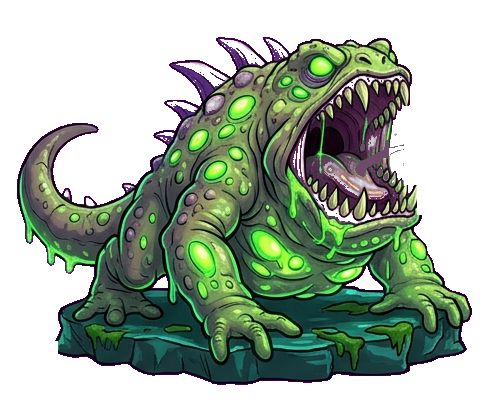
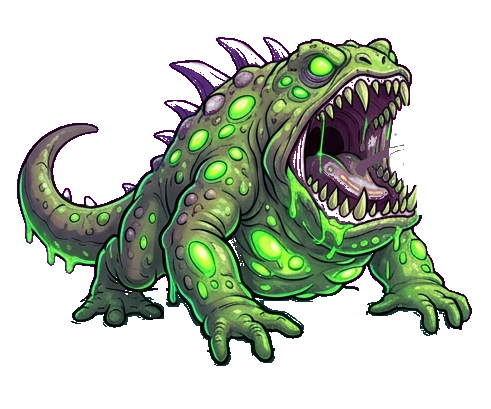
fix(boss,intro): remove rock pedestal from Boss sprites and add 3D trapezoidal Star Wars perspective crawl

Changed region(s): [[0.0916, 0.7042, 0.947, 0.9389], [0.4582, 0.5868, 0.4888, 0.6161]]

diff --git a/Assets/_SpaceChico/Scripts/UI/IntroShipCutscene.cs b/Assets/_SpaceChico/Scripts/UI/IntroShipCutscene.cs
@@ -17,11 +17,59 @@ namespace SpaceChico
         {
             public RectTransform rt;
             public Text txt;
+            public PerspectivaStarWarsEffect efeitoPerspectiva;
             public Vector2 posBase;
             public bool foiAtropelado;
             public Vector2 velocidadeVoando;
             public float velocidadeGiro;
             public float anguloAtual;
+        }
+
+        // Deforma os vértices do texto em um trapézio 3D real inclinado para o fundo do espaço (estilo Star Wars clássico!)
+        private class PerspectivaStarWarsEffect : BaseMeshEffect
+        {
+            public float yCentroParagrafo;
+            public bool ativo = true;
+
+            public static float CalcularEscalaPerspectiva(float yPlano)
+            {
+                float u = Mathf.Clamp((yPlano + 520f) / 1040f, -0.25f, 1.25f);
+                return 1.32f / (1f + Mathf.Max(-0.30f, u) * 2.15f);
+            }
+
+            public static float CalcularScreenY(float yPlano)
+            {
+                float u = Mathf.Clamp((yPlano + 520f) / 1040f, -0.25f, 1.25f);
+                return -490f + 860f * ((u * 1.85f) / (1f + Mathf.Max(0f, u) * 0.85f));
+            }
+
+            public override void ModifyMesh(VertexHelper vh)
+            {
+                if (!IsActive() || !ativo) return;
+
+                int count = vh.currentVertCount;
+                UIVertex v = new UIVertex();
+                for (int i = 0; i < count; i++)
+                {
+                    vh.PopulateUIVertex(ref v, i);
+
+                    float yPlano = yCentroParagrafo + v.position.y;
+                    float u = (yPlano + 520f) / 1040f;
+                    float persp = CalcularEscalaPerspectiva(yPlano);
+                    float screenY = CalcularScreenY(yPlano);
+
+                    v.position.x *= persp;
+                    v.position.y = screenY - yCentroParagrafo;
+
+                    float alphaTop = Mathf.Clamp01(1f - (u - 0.78f) / 0.22f);
+                    float alphaBot = Mathf.Clamp01((u + 0.05f) / 0.10f);
+                    Color32 c = v.color;
+                    c.a = (byte)Mathf.RoundToInt(c.a * alphaTop * alphaBot);
+                    v.color = c;
+
+                    vh.SetUIVertex(v, i);
+                }
+            }
         }
 
         private class ParticulaFumacaUI
@@ -198,29 +246,30 @@ namespace SpaceChico
             logoShadow.effectColor = new Color(0f, 0f, 0f, 0.95f);
             logoShadow.effectDistance = new Vector2(5f, -5f);
 
-            // 5. Parágrafos independentes do texto Star Wars (para serem espalhados um por um pela nave!)
+            // 5. Parágrafos independentes do texto Star Wars (com inclinação trapezoidal 3D real!)
             GameObject crawlRoot = new GameObject("StarWarsCrawlRoot");
             crawlRoot.transform.SetParent(canvasObj.transform, false);
             crawlRootRt = crawlRoot.AddComponent<RectTransform>();
             crawlRootRt.anchorMin = new Vector2(0.5f, 0.5f);
             crawlRootRt.anchorMax = new Vector2(0.5f, 0.5f);
-            crawlRootRt.sizeDelta = new Vector2(1200f, 1000f);
-            crawlRootRt.anchoredPosition = new Vector2(0f, -620f);
-            crawlRootRt.localRotation = Quaternion.Euler(28f, 0f, 0f);
+            crawlRootRt.sizeDelta = new Vector2(1400f, 1080f);
+            crawlRootRt.anchoredPosition = Vector2.zero;
+            crawlRootRt.localRotation = Quaternion.identity;
 
             string[] textosHistoria = new string[]
             {
-                "— Capítulo I: O Pântano Bioluminescente —",
-                "O destemido felino interestelar CHICO viajava feliz\npelo cosmos a bordo de sua nave exploradora.",
-                "De repente, uma pane catastrófica no propulsor\nfez a espaçonave perder o controle no espaço!",
-                "Atraída pela gravidade de um planeta selvagem,\na nave mergulhou em chamas na atmosfera densa...",
-                "Agora Chico precisa sobreviver à queda e recuperar o\nPROPULSOR QUÂNTICO para voltar às estrelas!"
+                "EPISÓDIO I",
+                "O PÂNTANO BIOLUMINESCENTE",
+                "É uma era de grandes viagens espaciais. O destemido\ngatinho astronauta CHICO cruzava a galáxia feliz\na bordo de sua moderna nave exploradora.",
+                "De repente, uma pane misteriosa no propulsor quântico\nfez os motores falharem, deixando a espaçonave\ntotalmente desgovernada pelo espaço profundo!",
+                "Atraída pela gravidade de um planeta selvagem e brilhante,\na nave do Chico agora corta as estrelas em chamas\nrumo a um pouso forçado na selva..."
             };
 
-            float[] alturasY = new float[] { 310f, 165f, 10f, -145f, -300f };
+            float[] alturasY = new float[] { -380f, -475f, -640f, -855f, -1070f };
+            int[] tamanhosFonte = new int[] { 38, 48, 36, 36, 36 };
             for (int i = 0; i < textosHistoria.Length; i++)
             {
-                AdicionarParagrafoCrawl(fonteTitulo, textosHistoria[i], new Vector2(0f, alturasY[i]), i == 0 ? 40 : 34);
+                AdicionarParagrafoCrawl(fonteTitulo, textosHistoria[i], new Vector2(0f, alturasY[i]), tamanhosFonte[i]);
             }
 
             // 6. Feixe luminoso que corta a tela junto com a nave
@@ -309,25 +358,30 @@ namespace SpaceChico
             RectTransform rt = go.AddComponent<RectTransform>();
             rt.anchorMin = new Vector2(0.5f, 0.5f);
             rt.anchorMax = new Vector2(0.5f, 0.5f);
-            rt.sizeDelta = new Vector2(1150f, 130f);
+            rt.sizeDelta = new Vector2(1280f, 180f);
             rt.anchoredPosition = pos;
 
             Text txt = go.AddComponent<Text>();
             txt.font = fonte;
             txt.fontSize = tamanhoFonte;
-            txt.lineSpacing = 1.25f;
+            txt.lineSpacing = 1.28f;
             txt.alignment = TextAnchor.MiddleCenter;
-            txt.color = new Color(1f, 0.86f, 0.22f, 1f);
+            txt.color = new Color(1f, 0.85f, 0.16f, 1f);
             txt.text = texto;
 
             Shadow sh = go.AddComponent<Shadow>();
             sh.effectColor = new Color(0f, 0f, 0f, 0.95f);
             sh.effectDistance = new Vector2(3f, -3f);
 
+            var persp = go.AddComponent<PerspectivaStarWarsEffect>();
+            persp.yCentroParagrafo = pos.y;
+            persp.ativo = true;
+
             paragrafos.Add(new ParagrafoCrawl
             {
                 rt = rt,
                 txt = txt,
+                efeitoPerspectiva = persp,
                 posBase = pos,
                 foiAtropelado = false
             });
@@ -446,33 +500,46 @@ namespace SpaceChico
             Vector3 posFinalShip = propShip != null ? propShip.transform.position : new Vector3(-5.2f, 2.15f, 0f);
 
             // =========================================================================
-            // ATO 1: Logo "SPACE CHICO" Gigante Encolhendo + Texto Star Wars Subindo
+            // ATO 1: Logo "SPACE CHICO" Gigante Encolhendo + Texto Star Wars Subindo Lento e Inclinado
             // =========================================================================
             AudioManager.Play(Sfx.PowerUp, 0.85f);
 
-            float duracaoCrawl = 5.0f;
+            float duracaoCrawl = 11.2f;
+            float velCrawl = 88f; // Velocidade lenta e majestosa estilo Star Wars
+            float scrollOffset = 0f;
             float t = 0f;
             while (t < duracaoCrawl && !pulouCutscene)
             {
                 float dt = Time.unscaledDeltaTime;
                 t += dt;
-                float p = t / duracaoCrawl;
 
-                AnimarEstrelas(t, -10f, -8f);
-                planetaRt.localRotation = Quaternion.Euler(0f, 0f, t * 2.5f);
+                AnimarEstrelas(t, -8f, -6f);
+                planetaRt.localRotation = Quaternion.Euler(0f, 0f, t * 2.2f);
 
-                // Logo gigante encolhe em direção ao fundo do espaço (igual Star Wars!)
-                float pLogo = Mathf.Clamp01(t / 2.6f);
-                float escLogo = Mathf.Lerp(2.3f, 0.18f, pLogo);
+                // Logo gigante encolhe em direção ao fundo do espaço nos primeiros 3.2 segundos
+                float pLogo = Mathf.Clamp01(t / 3.2f);
+                float escLogo = Mathf.Lerp(2.35f, 0.14f, pLogo);
                 logoRt.localScale = new Vector3(escLogo, escLogo, 1f);
-                logoRt.anchoredPosition = new Vector2(0f, Mathf.Lerp(-20f, 440f, pLogo));
+                logoRt.anchoredPosition = new Vector2(0f, Mathf.Lerp(-10f, 445f, pLogo));
                 logoText.color = new Color(1f, 0.88f, 0.2f, Mathf.Clamp01(1f - (pLogo - 0.65f) / 0.35f));
 
-                // Parágrafos da história sobem em perspectiva 3D
-                float crawlY = Mathf.Lerp(-540f, 75f, p);
-                float escCrawl = Mathf.Lerp(1.06f, 0.84f, p);
-                crawlRootRt.anchoredPosition = new Vector2(0f, crawlY);
-                crawlRootRt.localScale = new Vector3(escCrawl, escCrawl, 1f);
+                // Parágrafos sobem lentamente ao longo do plano inclinado 3D (começando logo após o logo afastar)
+                if (t > 0.8f)
+                {
+                    scrollOffset += dt * velCrawl;
+                }
+
+                for (int i = 0; i < paragrafos.Count; i++)
+                {
+                    var par = paragrafos[i];
+                    float yPlano = par.posBase.y + scrollOffset;
+                    par.rt.anchoredPosition = new Vector2(0f, yPlano);
+                    if (par.efeitoPerspectiva != null)
+                    {
+                        par.efeitoPerspectiva.yCentroParagrafo = yPlano;
+                        par.txt.SetVerticesDirty();
+                    }
+                }
 
                 yield return null;
             }
@@ -490,7 +557,7 @@ namespace SpaceChico
                 AudioManager.Play(Sfx.Shoot, 1.0f);
 
                 t = 0f;
-                float duracaoCorte = 1.65f;
+                float duracaoCorte = 1.75f;
                 float timerFumaca = 0f;
 
                 // A nave vem grande de trás da câmera (direita/topo) para o meio/esquerda do espaço!
@@ -502,6 +569,7 @@ namespace SpaceChico
                     float dt = Time.unscaledDeltaTime;
                     t += dt;
                     float p = Mathf.Clamp01(t / duracaoCorte);
+                    scrollOffset += dt * (velCrawl * 0.5f);
 
                     AnimarEstrelas(t + 5f, -55f, -25f);
 
@@ -532,10 +600,22 @@ namespace SpaceChico
                     for (int i = 0; i < paragrafos.Count; i++)
                     {
                         var par = paragrafos[i];
-                        float gatilhoP = 0.20f + i * 0.11f;
+                        float gatilhoP = 0.18f + i * 0.11f;
                         if (!par.foiAtropelado && p >= gatilhoP)
                         {
                             par.foiAtropelado = true;
+                            float yPlano = par.posBase.y + scrollOffset;
+                            float escAtual = PerspectivaStarWarsEffect.CalcularEscalaPerspectiva(yPlano);
+                            float screenYAtual = PerspectivaStarWarsEffect.CalcularScreenY(yPlano);
+
+                            if (par.efeitoPerspectiva != null)
+                            {
+                                par.efeitoPerspectiva.ativo = false;
+                                par.txt.SetVerticesDirty();
+                            }
+                            par.rt.anchoredPosition = new Vector2(0f, screenYAtual);
+                            par.rt.localScale = new Vector3(escAtual, escAtual * 0.75f, 1f);
+
                             float dirY = (i % 2 == 0) ? 1f : -1f;
                             float dirX = (i < 2) ? -1f : 1f;
                             par.velocidadeVoando = new Vector2(dirX * Random.Range(420f, 680f), dirY * Random.Range(320f, 540f));
@@ -549,7 +629,17 @@ namespace SpaceChico
                             }
                         }
 
-                        if (par.foiAtropelado)
+                        if (!par.foiAtropelado)
+                        {
+                            float yPlano = par.posBase.y + scrollOffset;
+                            par.rt.anchoredPosition = new Vector2(0f, yPlano);
+                            if (par.efeitoPerspectiva != null)
+                            {
+                                par.efeitoPerspectiva.yCentroParagrafo = yPlano;
+                                par.txt.SetVerticesDirty();
+                            }
+                        }
+                        else
                         {
                             par.rt.anchoredPosition += par.velocidadeVoando * dt;
                             par.anguloAtual += par.velocidadeGiro * dt;

diff --git a/Assets/_SpaceChico/Scripts/Core/LevelExpander.cs b/Assets/_SpaceChico/Scripts/Core/LevelExpander.cs
@@ -282,3 +282,4 @@ namespace SpaceChico
         }
     }
 }
+
